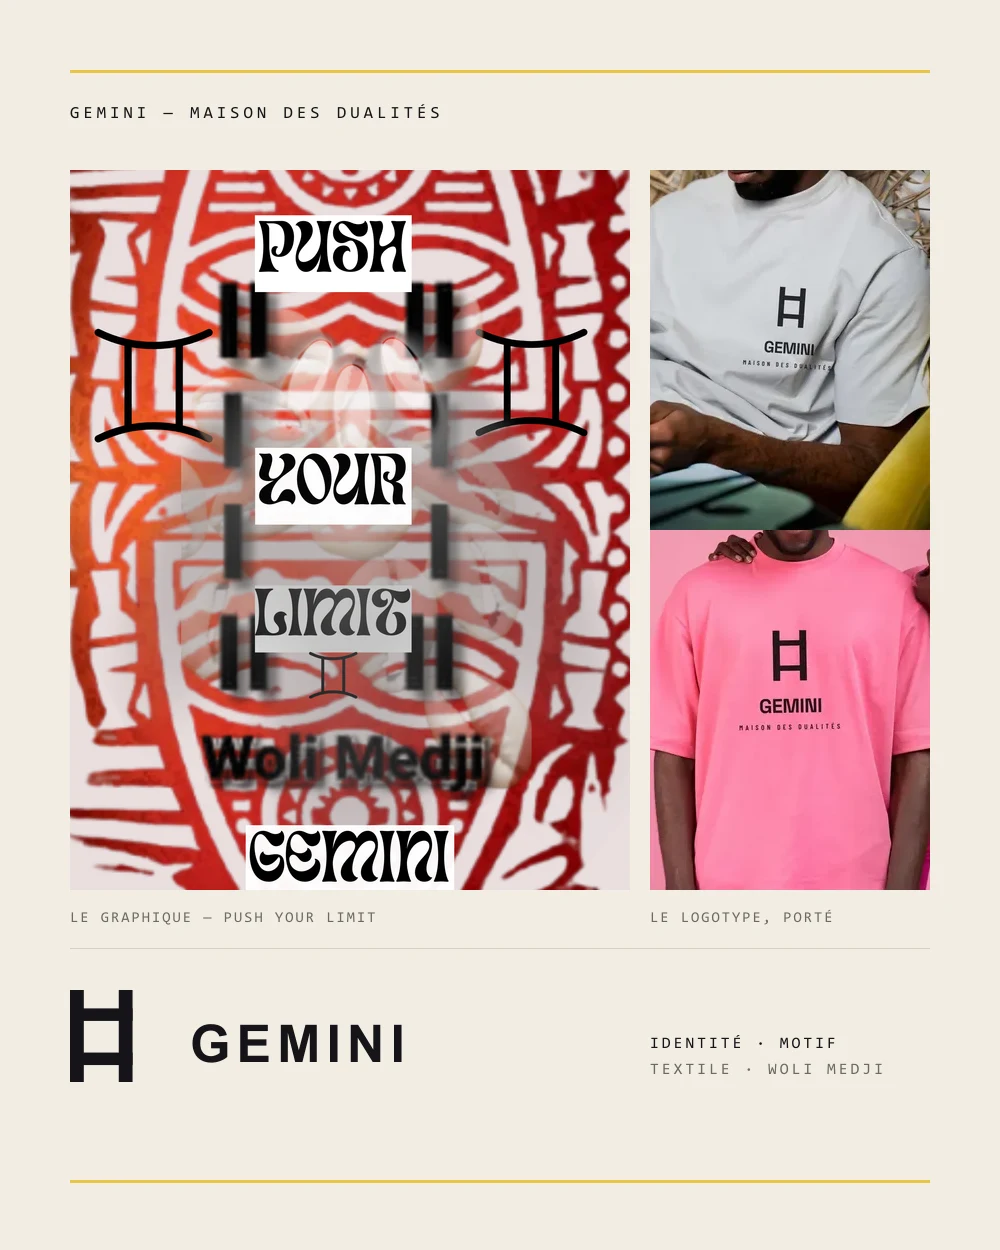
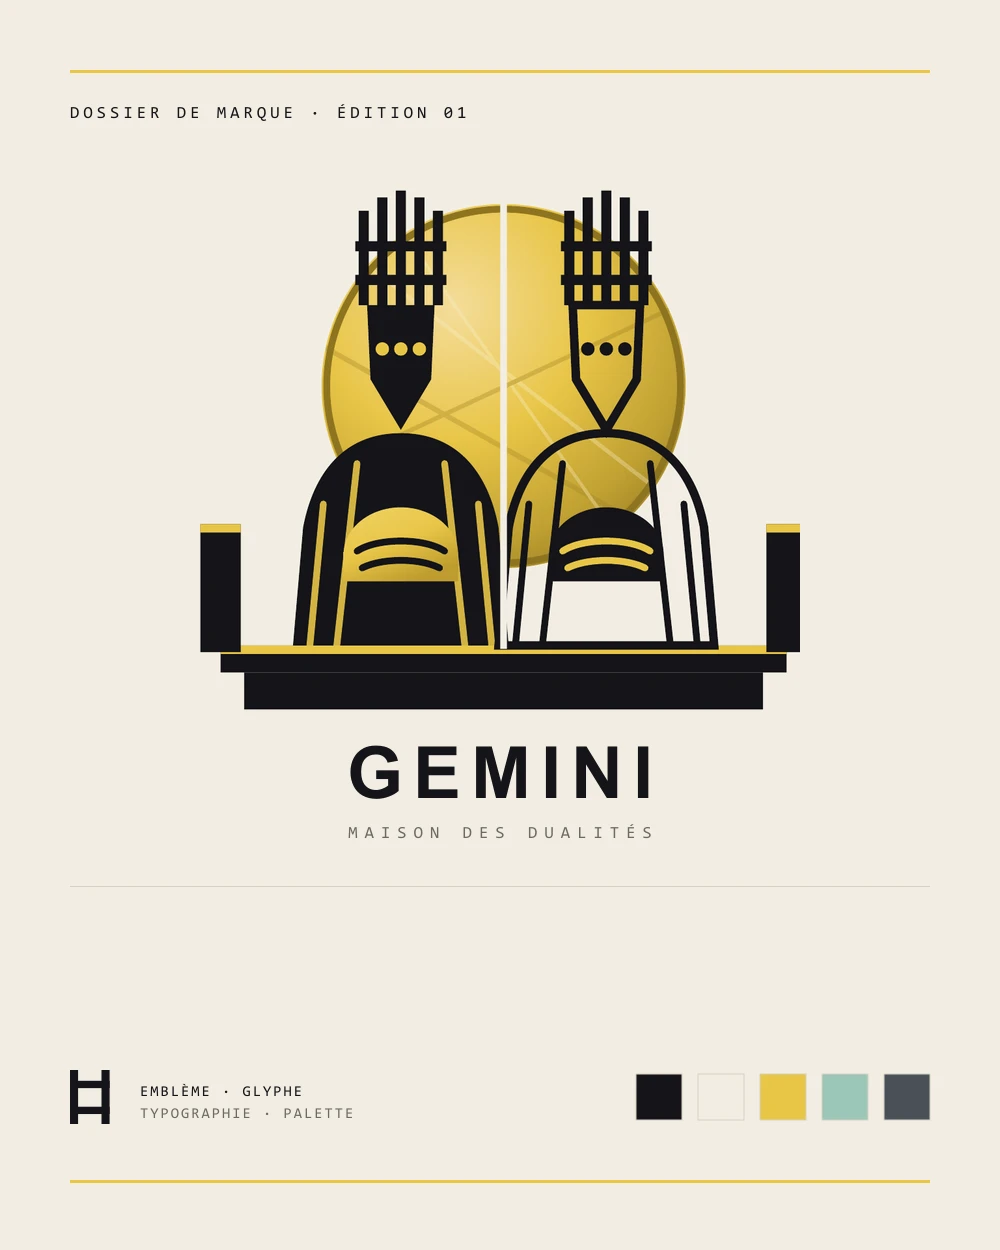
GEMINI : la fiche passe du t-shirt a la marque
Le dossier de marque definitif (edition 01) pose un systeme complet --
manifeste, embleme, glyphe, deux familles typographiques, cinq couleurs a
role, motif secondaire, regles d'usage. La fiche parlait encore d'un seul
t-shirt.

CE QUI CHANGE

Titre « GEMINI », client « Maison des dualites ». Le slug reste
tshirt-gemini : c'est un lien permanent, et le renommer casserait toute
adresse deja partagee pour un gain cosmetique.

La couverture porte l'EMBLEME. La charte pose elle-meme sa hierarchie --
« trone pour les grands formats » -- et une plaque de portfolio en est un.
Il est rendu depuis le vectoriel du dossier a 300 dpi, donc net a toute
taille et sans le fond parasite d'un export aplati.

Le glyphe dessine passe au rapport 11:15 de la charte. Je l'avais mis a
0,68, mesure au pixel sur la photo d'un t-shirt PORTE : le tissu epouse le
torse et comprime la largeur. Mesurer un objet plat sur un corps courbe
donne toujours trop etroit, et la charte donnait le rapport exact.

CE QUI N'Y FIGURE PAS, DELIBEREMENT

La section « 08 -- PIECES REELLES » du dossier montre des vetements qui ne
portent PAS l'embleme GEMINI : le motif imprime y est un souverain UNIQUE a
halo dore, la ou l'embleme en compte deux partageant un siege. Et l'un des
sweats porte en toutes lettres le logotype d'une autre marque, SPIRIT.

Ce sont des mockups, pas des pieces produites. Aucune ne va sur la fiche :
publier le vetement d'un tiers comme une realisation est exactement ce
[…]

diff --git a/src/content/projects.ts b/src/content/projects.ts
@@ -413,41 +413,45 @@ export const projects: readonly Project[] = [
     ],
   },
   {
+    // Le slug reste `tshirt-gemini` bien que le projet ait dépassé le t-shirt :
+    // il sert de lien permanent, et le renommer casserait toute adresse déjà
+    // partagée pour un gain purement cosmétique.
     slug: "tshirt-gemini",
-    title: "T-Shirt Gemini",
+    title: "GEMINI",
+    client: "Maison des dualités",
     year: 2026,
     discipline: "creative",
     status: "livre",
     summary:
-      "Une typographie qui porte le message avant le vêtement : composition rouge, verticale, lisible à trois mètres.",
-    stack: ["Identité de marque", "Design graphique", "Typographie", "Textile"],
-    // La couverture précédente ne montrait QUE les mockups du t-shirt logo,
-    // alors que les quatre sections ci-dessous décrivent le graphique rouge.
-    // Le lecteur voyait un vêtement silencieux pendant qu'on lui parlait d'un
-    // motif saturé. Les deux registres sont maintenant côte à côte, le
-    // graphique en grand : la fiche montre ce qu'elle raconte.
+      "Une marque dont le sujet — la dualité — est tenu par la construction, pas par l'illustration : deux masses identiques, reliées deux fois, jamais fondues en une seule.",
+    stack: ["Identité de marque", "Emblème", "Typographie", "Palette", "Textile"],
+    // La couverture porte l'EMBLÈME, pas une pièce. La charte pose elle-même
+    // sa hiérarchie — « trône pour les grands formats » — et une plaque de
+    // portfolio est un grand format. Elle est rendue depuis le vectoriel du
+    // dossier : nette à n'importe quelle taille, et sans le fond parasite
+    // qu'aurait traîné un export aplati.
     cover: "/work/tshirt-gemini.webp",
     coverFit: "contain", // 1000×1250, soit le 4:5 exact de la plaque
     detail: [
       {
-        title: "L'idée",
-        body: "Faire tenir sur un torse un signe du zodiaque, un motif béninois et une injonction de salle de sport — sans qu'aucun des trois n'écrase les deux autres.",
+        title: "Le manifeste",
+        body: "Pas de jumeaux illustrés, pas de symbole ésotérique. La dualité vit dans la construction même : deux masses identiques, reliées deux fois, jamais fondues en une seule. Trois principes en découlent — la structure avant l'illustration, un seul accent par pièce, rien qui ne serve la lecture.",
       },
       {
-        title: "La composition",
-        body: "Trois blocs typographiques empilés sur l'axe vertical — PUSH / YOUR / LIMIT — en serif groovy noir sur cartouches clairs. L'axe est tenu par une barre d'haltères qui traverse toute la hauteur du visuel.",
+        title: "L'emblème",
+        body: "Deux souverains identiques partagent un seul siège. Celui de gauche est une masse pleine, celui de droite un contour gravé — même silhouette, deux traitements, aucune hiérarchie. La couronne porte le signe : cinq montants verticaux, deux liaisons horizontales. Le halo est un disque unique : ce qu'ils partagent. La fente centrale n'est jamais comblée.",
       },
       {
-        title: "Le fond",
-        body: "Un motif rouge dense, à la géométrie proche des tissus imprimés locaux, strictement symétrique par rapport à l'axe. Saturé là où le texte ne passe pas, atténué là où il passe : la lisibilité est obtenue par le fond, pas par un contour ajouté.",
+        title: "Le glyphe",
+        body: "Le signe réduit à sa charpente : deux barres verticales, deux liaisons horizontales, sur une grille de 4 × 3 au rapport 11:15. C'est la version courte de l'emblème — là où le trône ne tient pas, en étiquette, en broderie, en favicon, le glyphe prend le relais. En dessous de vingt millimètres, il reste seul.",
       },
       {
-        title: "Les signes",
-        body: "Le glyphe des Gémeaux marque les deux épaules et referme la composition. « Woli Medji » l'ancre au Fa béninois — le même signe, dit dans deux langues.",
+        title: "Le système",
+        body: "Deux familles typographiques et aucune autre. Cinq couleurs, chacune avec son rôle — l'encre pour la structure, le crème pour le fond, le jaune Gémeaux en signature, la sauge en second, l'ardoise pour les textes secondaires. Une règle absolue : jaune ou sauge sur une pièce donnée, jamais les deux ensemble. Une charte qui interdit vaut mieux qu'une charte qui suggère.",
       },
       {
-        title: "Le second registre",
-        body: "La même marque sait aussi se taire : deux barres verticales, deux liaisons horizontales, et rien d'autre sur la poitrine. Une seule couleur d'accent par pièce. Un vestiaire tient rarement sur un seul volume sonore — le graphique se porte quand on veut être vu, le logotype le reste du temps.",
+        title: "Pensés par paires",
+        body: "La gamme applique le manifeste à la lettre : chaussettes dépareillées, casquettes vendues en paire crème et encre, petit devant et emblème au dos. Le motif secondaire — la constellation de Castor et Pollux — reste discret : nuque, doublure, intérieur de packaging, jamais en couverture totale.",
       },
     ],
   },

diff --git a/src/content/en/projects.ts b/src/content/en/projects.ts
@@ -250,31 +250,34 @@ const EN: Record<ProjectSlug, Traduction> = {
     ],
   },
 
-  /* ───────────────────────────────────────────────── T-SHIRT GEMINI ── */
+  /* ─────────────────────────────────────────────────────────── GEMINI ── */
+  // Pas de `client` traduit : « Maison des dualités » est la baseline de la
+  // marque, imprimée telle quelle sur les pièces. La traduire ferait dire au
+  // site autre chose que ce que porte le vêtement.
   "tshirt-gemini": {
     summary:
-      "Type that carries the message before the garment: a red, vertical composition, legible at three metres.",
-    stack: ["Brand identity", "Graphic design", "Typography", "Textile"],
+      "A brand whose subject — duality — is carried by construction rather than illustration: two identical masses, linked twice, never merged into one.",
+    stack: ["Brand identity", "Emblem", "Typography", "Palette", "Textile"],
     detail: [
       {
-        title: "The idea",
-        body: "Fit a zodiac sign, a Beninese pattern and a gym imperative onto one chest — without any of the three crushing the other two.",
+        title: "The manifesto",
+        body: "No illustrated twins, no esoteric symbol. Duality lives in the construction itself: two identical masses, linked twice, never merged into one. Three principles follow — structure before illustration, one accent per piece, nothing that does not serve legibility.",
       },
       {
-        title: "The composition",
-        body: "Three type blocks stacked on the vertical axis — PUSH / YOUR / LIMIT — in groovy black serif on light panels. The axis is held by a barbell running the full height of the visual.",
+        title: "The emblem",
+        body: "Two identical sovereigns share a single seat. The left one is a solid mass, the right an engraved outline — same silhouette, two treatments, no hierarchy. The crown carries the sign: five vertical uprights, two horizontal links. The halo is a single disc: what they share. The central slit is never filled in.",
       },
       {
-        title: "The ground",
-        body: "A dense red pattern, geometrically close to local printed cloth, strictly symmetrical about the axis. Saturated where the text does not fall, muted where it does: legibility comes from the ground, not from an added outline.",
+        title: "The glyph",
+        body: "The sign reduced to its frame: two vertical bars, two horizontal links, on a 4 × 3 grid at a ratio of 11:15. It is the short version of the emblem — wherever the throne will not fit, on a label, an embroidery, a favicon, the glyph takes over. Below twenty millimetres it stands alone.",
       },
       {
-        title: "The signs",
-        body: "The Gemini glyph marks both shoulders and closes the composition. “Woli Medji” anchors it in Beninese Fa divination — the same sign, said in two languages.",
+        title: "The system",
+        body: "Two type families and no others. Five colours, each with a role — ink for structure, cream for ground, Gemini yellow as signature, sage second, slate for secondary text. One absolute rule: yellow or sage on a given piece, never both. A set of guidelines that forbids is worth more than one that suggests.",
       },
       {
-        title: "The quiet register",
-        body: "The same brand also knows how to keep quiet: two vertical bars, two horizontal links, and nothing else across the chest. One accent colour per piece. A wardrobe rarely holds at a single volume — the graphic is worn to be seen, the logotype the rest of the time.",
+        title: "Thought in pairs",
+        body: "The range applies the manifesto to the letter: mismatched socks, caps sold as a cream-and-ink pair, small on the front and the emblem across the back. The secondary motif — the constellation of Castor and Pollux — stays discreet: nape, lining, inside of the packaging, never as full coverage.",
       },
     ],
   },
